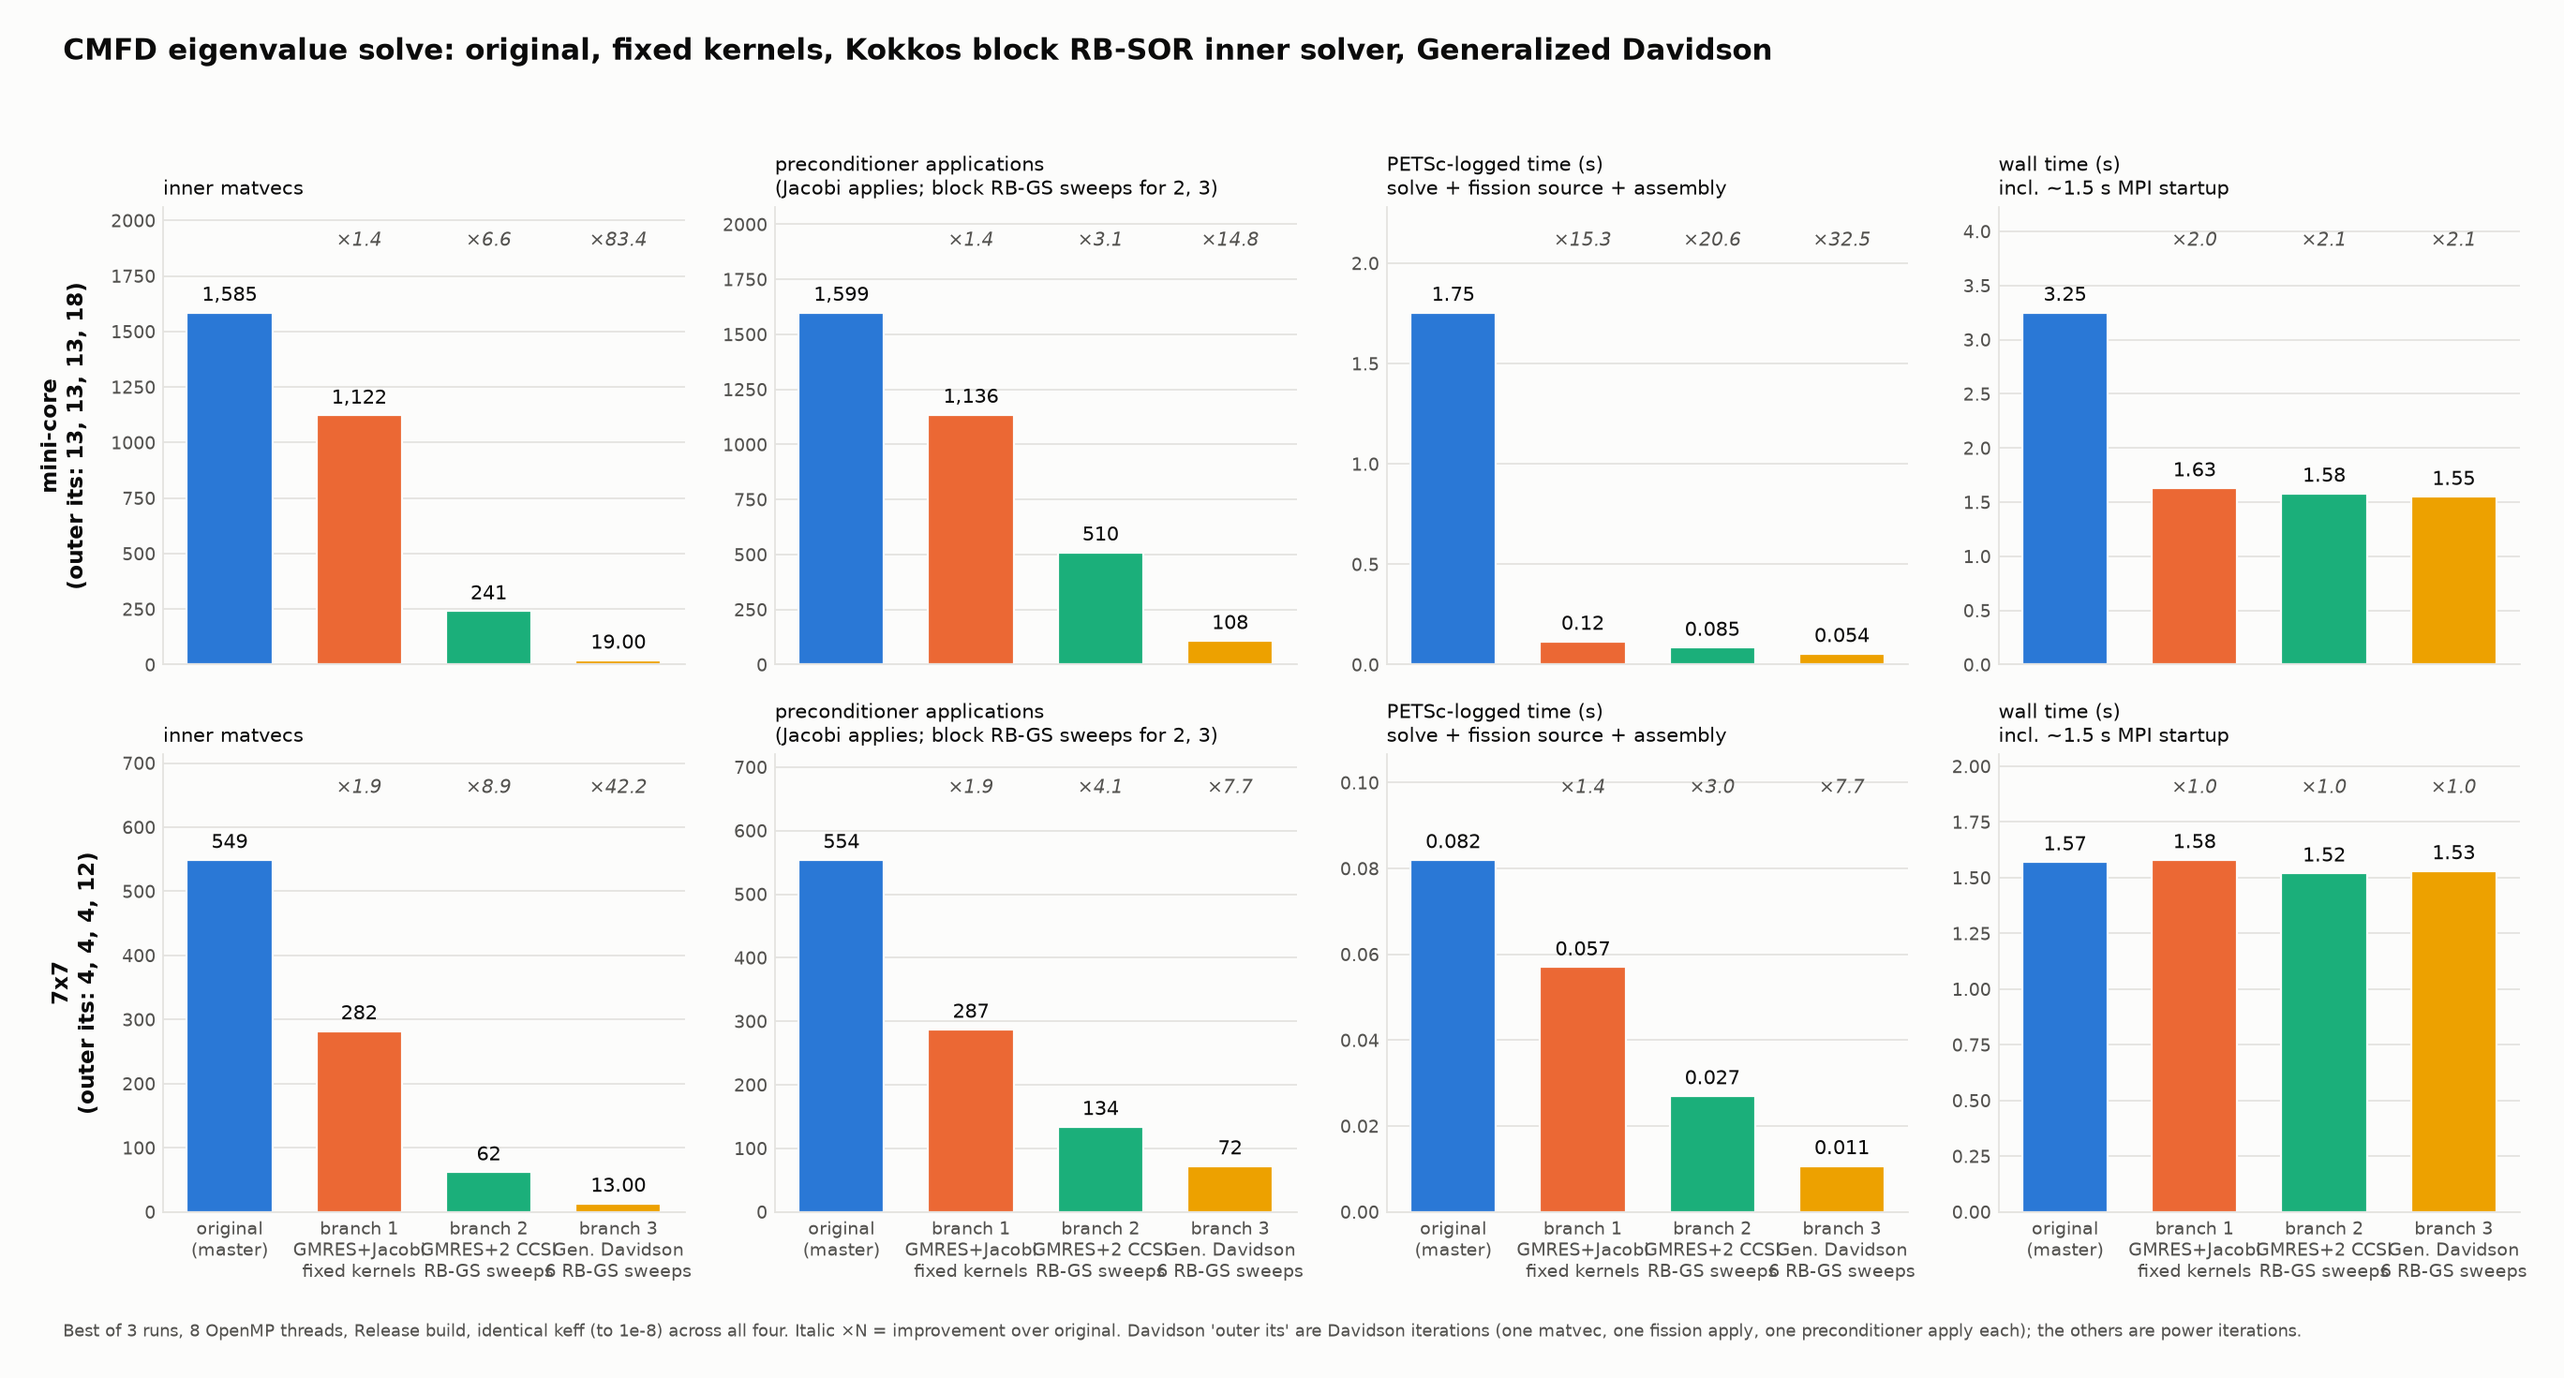
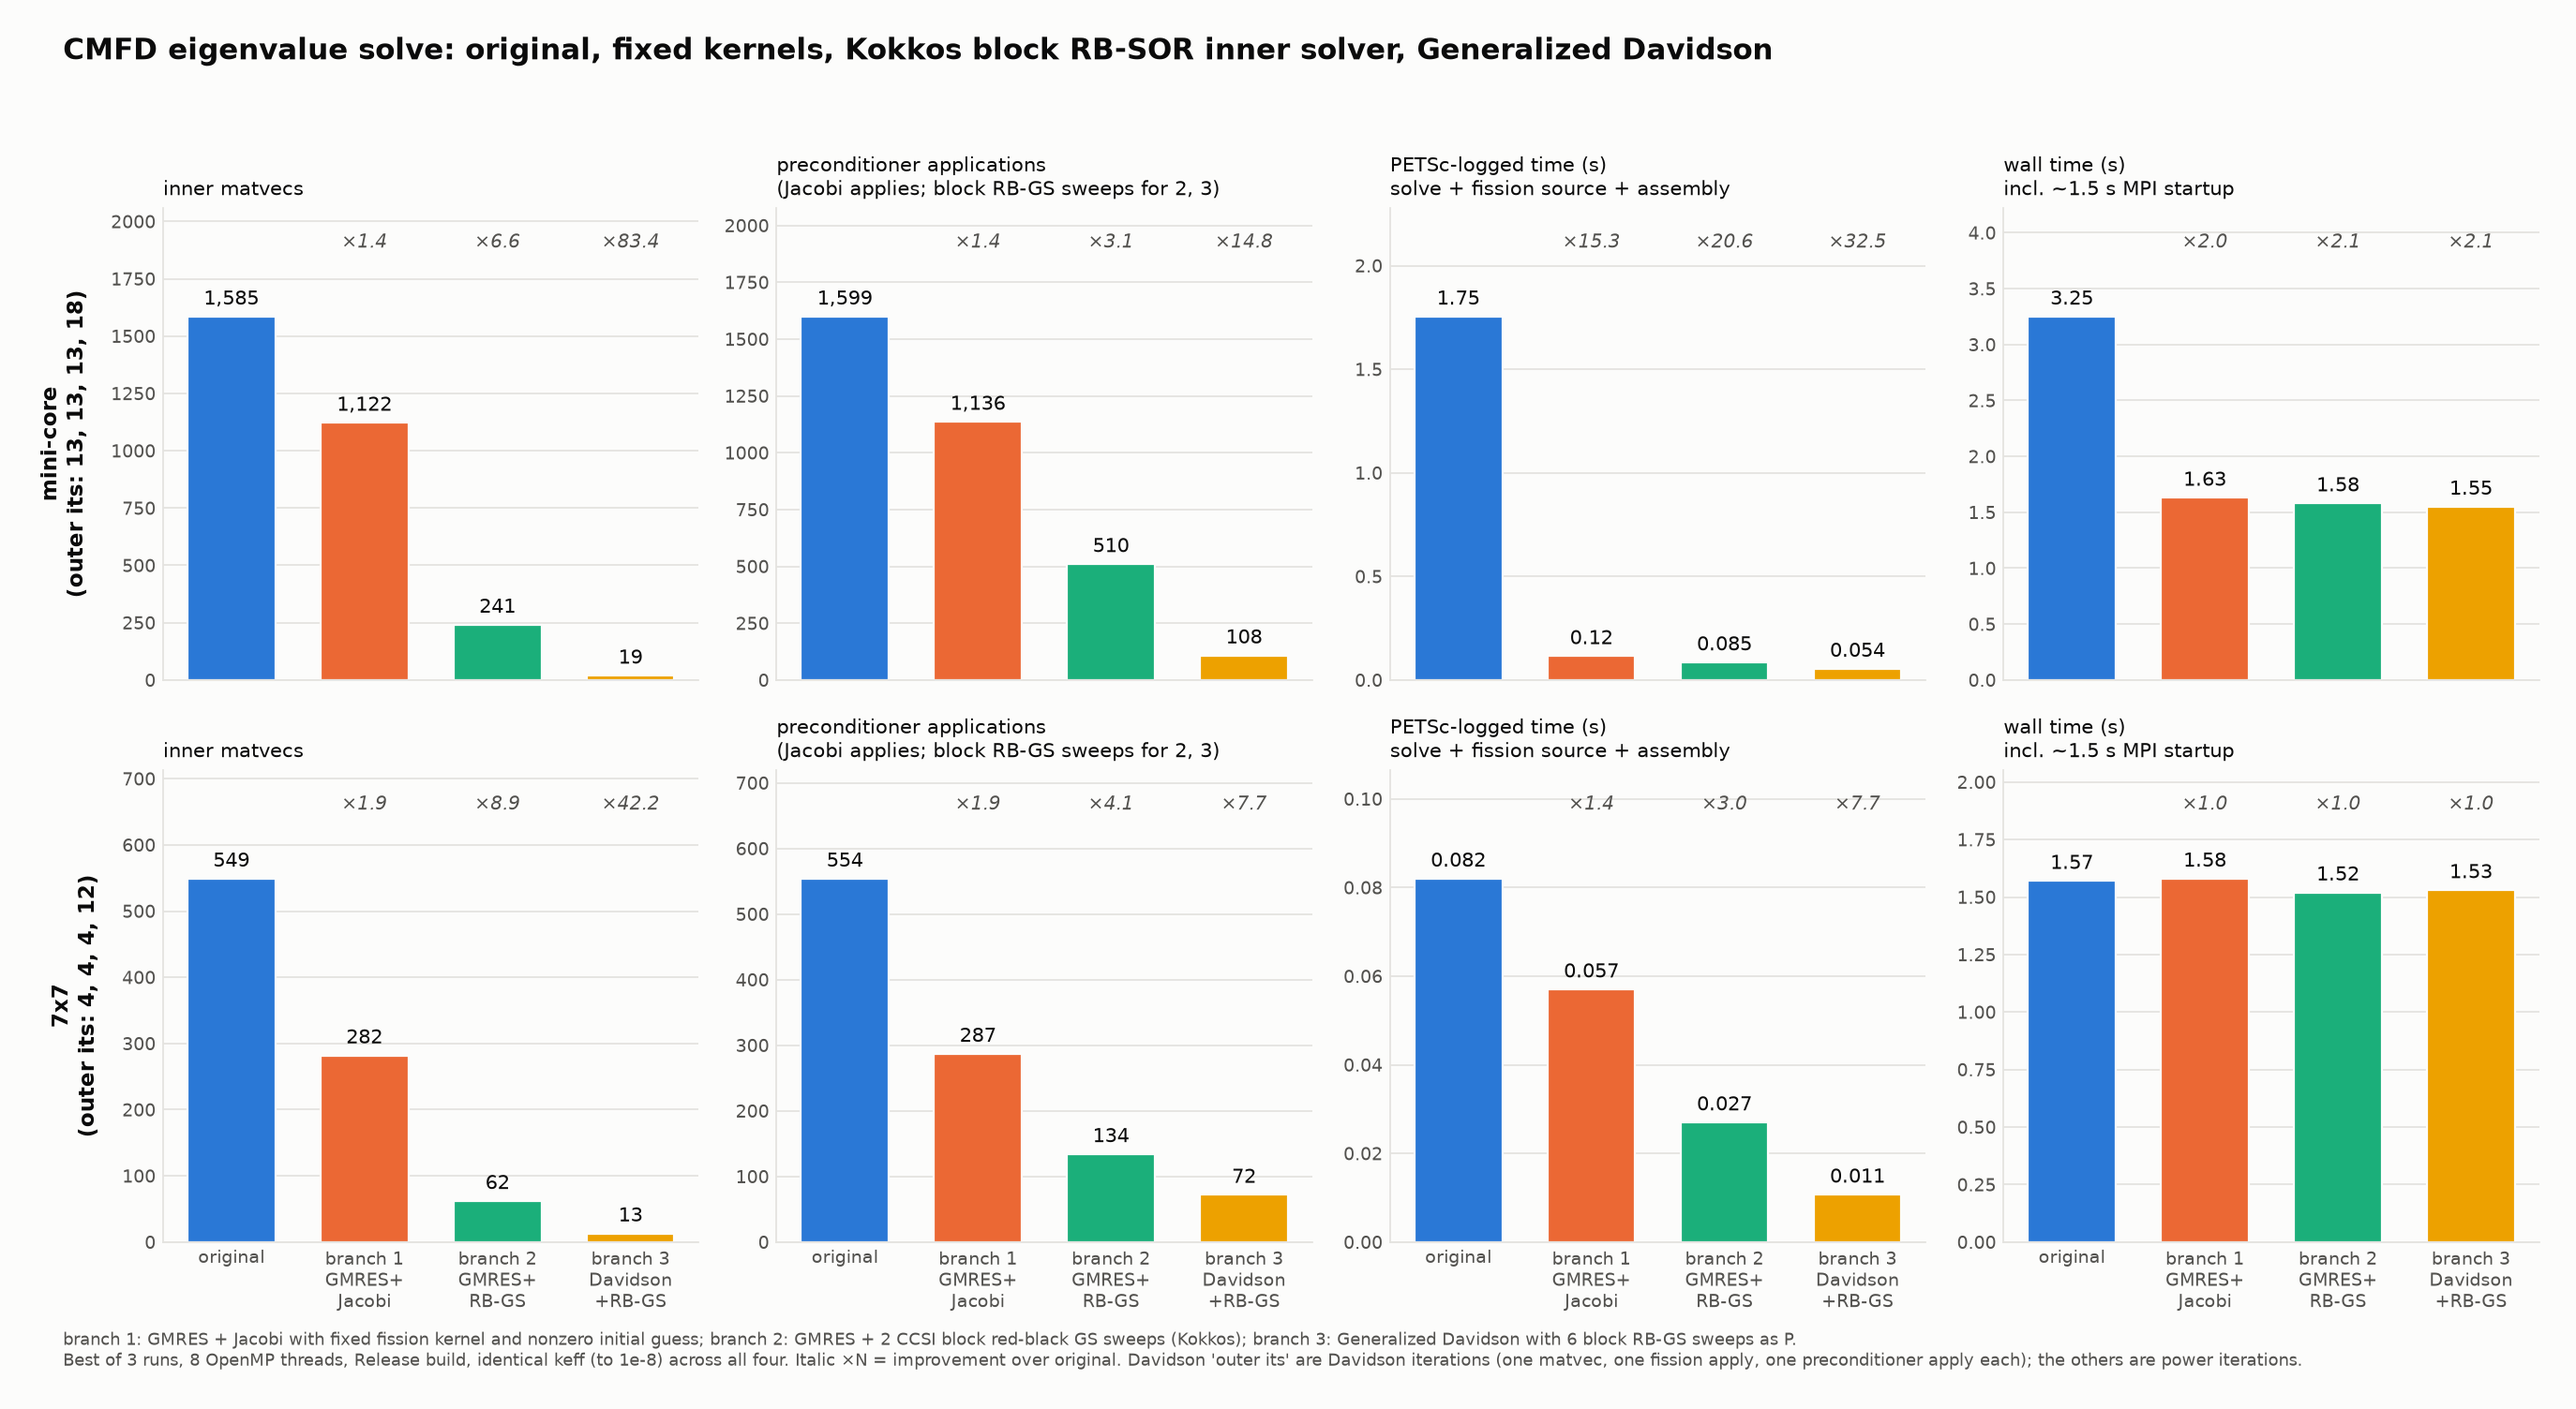
Fix labels in the 4-way CMFD comparison chart

diff --git a/perf/tools/cmfd_solver_comparison_4way_chart.py b/perf/tools/cmfd_solver_comparison_4way_chart.py
@@ -4,7 +4,7 @@ import matplotlib.pyplot as plt
 import numpy as np
 INK, INK2, SURF, GRID = "#0b0b0b", "#52514e", "#fcfcfb", "#e4e3df"
 COLS = ["#2a78d6", "#eb6834", "#1baf7a", "#eda100"]
-versions = ["original\n(master)", "branch 1\nGMRES+Jacobi\nfixed kernels", "branch 2\nGMRES+2 CCSI\nRB-GS sweeps", "branch 3\nGen. Davidson\n6 RB-GS sweeps"]
+versions = ["original", "branch 1\nGMRES+\nJacobi", "branch 2\nGMRES+\nRB-GS", "branch 3\nDavidson\n+RB-GS"]
 # best of 3 runs, 8 threads, same machine/session
 data = {
  "mini-core": {
@@ -21,7 +21,7 @@ data = {
  },
 }
 outer = {"mini-core": [13, 13, 13, 18], "7x7": [4, 4, 4, 12]}
-fig, axes = plt.subplots(2, 4, figsize=(17, 8.8), facecolor=SURF)
+fig, axes = plt.subplots(2, 4, figsize=(17, 9), facecolor=SURF)
 fig.suptitle("CMFD eigenvalue solve: original, fixed kernels, Kokkos block RB-SOR inner solver, Generalized Davidson",
              fontsize=14, color=INK, fontweight="bold", x=0.02, ha="left", y=0.99)
 for r, (case, metrics) in enumerate(data.items()):
@@ -31,7 +31,8 @@ for r, (case, metrics) in enumerate(data.items()):
         bars = ax.bar(x, vals, color=COLS, width=0.66, edgecolor=SURF, linewidth=1)
         top = max(vals); ax.set_ylim(0, top * 1.3)
         for b, v in zip(bars, vals):
-            txt = f"{v:,.0f}" if v >= 20 else (f"{v:.3f}" if v < 0.1 else f"{v:.2f}")
+            is_count = "matvec" in metric or "applications" in metric
+            txt = f"{v:,.0f}" if is_count else (f"{v:.3f}" if v < 0.1 else f"{v:.2f}")
             ax.text(b.get_x() + b.get_width()/2, v + top*0.02, txt, ha="center", va="bottom", fontsize=9.5, color=INK)
         for i in (1, 2, 3):
             ax.text(x[i], top*1.19, f"×{vals[0]/vals[i]:.1f}", ha="center", fontsize=9, color=INK2, style="italic")
@@ -43,7 +44,7 @@ for r, (case, metrics) in enumerate(data.items()):
         ax.tick_params(colors=INK2, length=0, labelsize=8.5)
     its = outer[case]
     axes[r, 0].set_ylabel(f"{case}\n(outer its: {', '.join(map(str, its))})", fontsize=10.5, color=INK, fontweight="bold", labelpad=10)
-fig.text(0.02, 0.005, "Best of 3 runs, 8 OpenMP threads, Release build, identical keff (to 1e-8) across all four. Italic ×N = improvement over original. "
+fig.text(0.02, 0.005, "branch 1: GMRES + Jacobi with fixed fission kernel and nonzero initial guess; branch 2: GMRES + 2 CCSI block red-black GS sweeps (Kokkos); branch 3: Generalized Davidson with 6 block RB-GS sweeps as P.\nBest of 3 runs, 8 OpenMP threads, Release build, identical keff (to 1e-8) across all four. Italic ×N = improvement over original. "
          "Davidson 'outer its' are Davidson iterations (one matvec, one fission apply, one preconditioner apply each); the others are power iterations.",
          fontsize=8.3, color=INK2)
 plt.tight_layout(rect=(0, 0.025, 1, 0.96))
